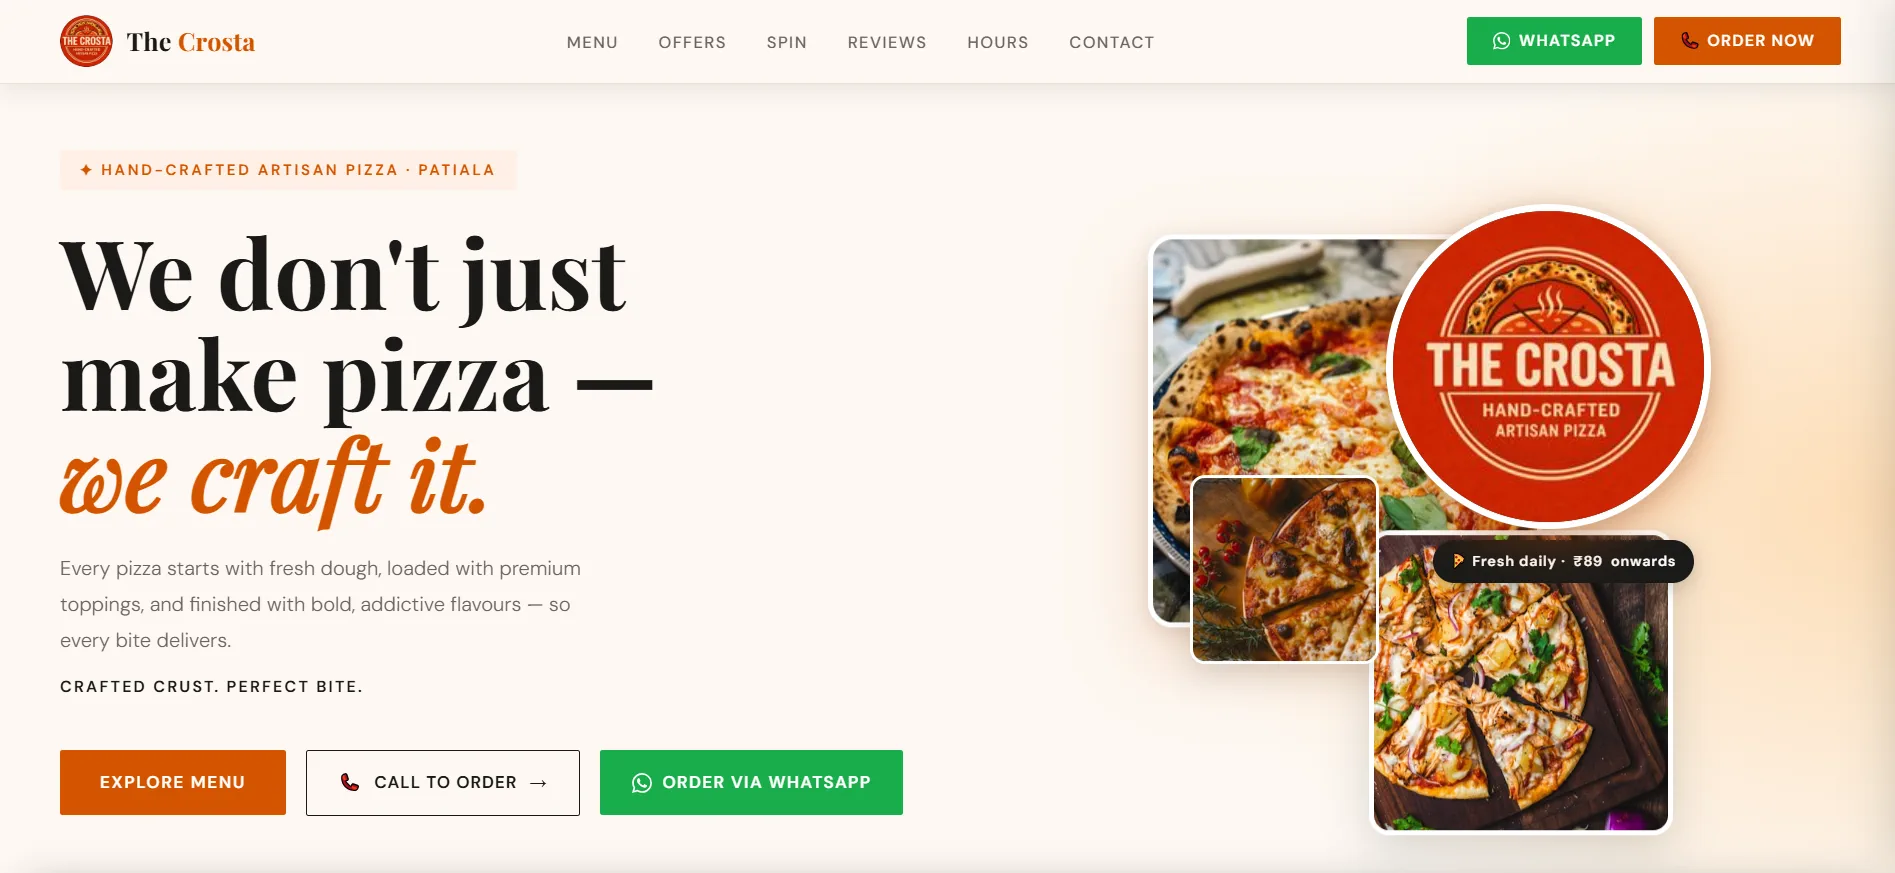
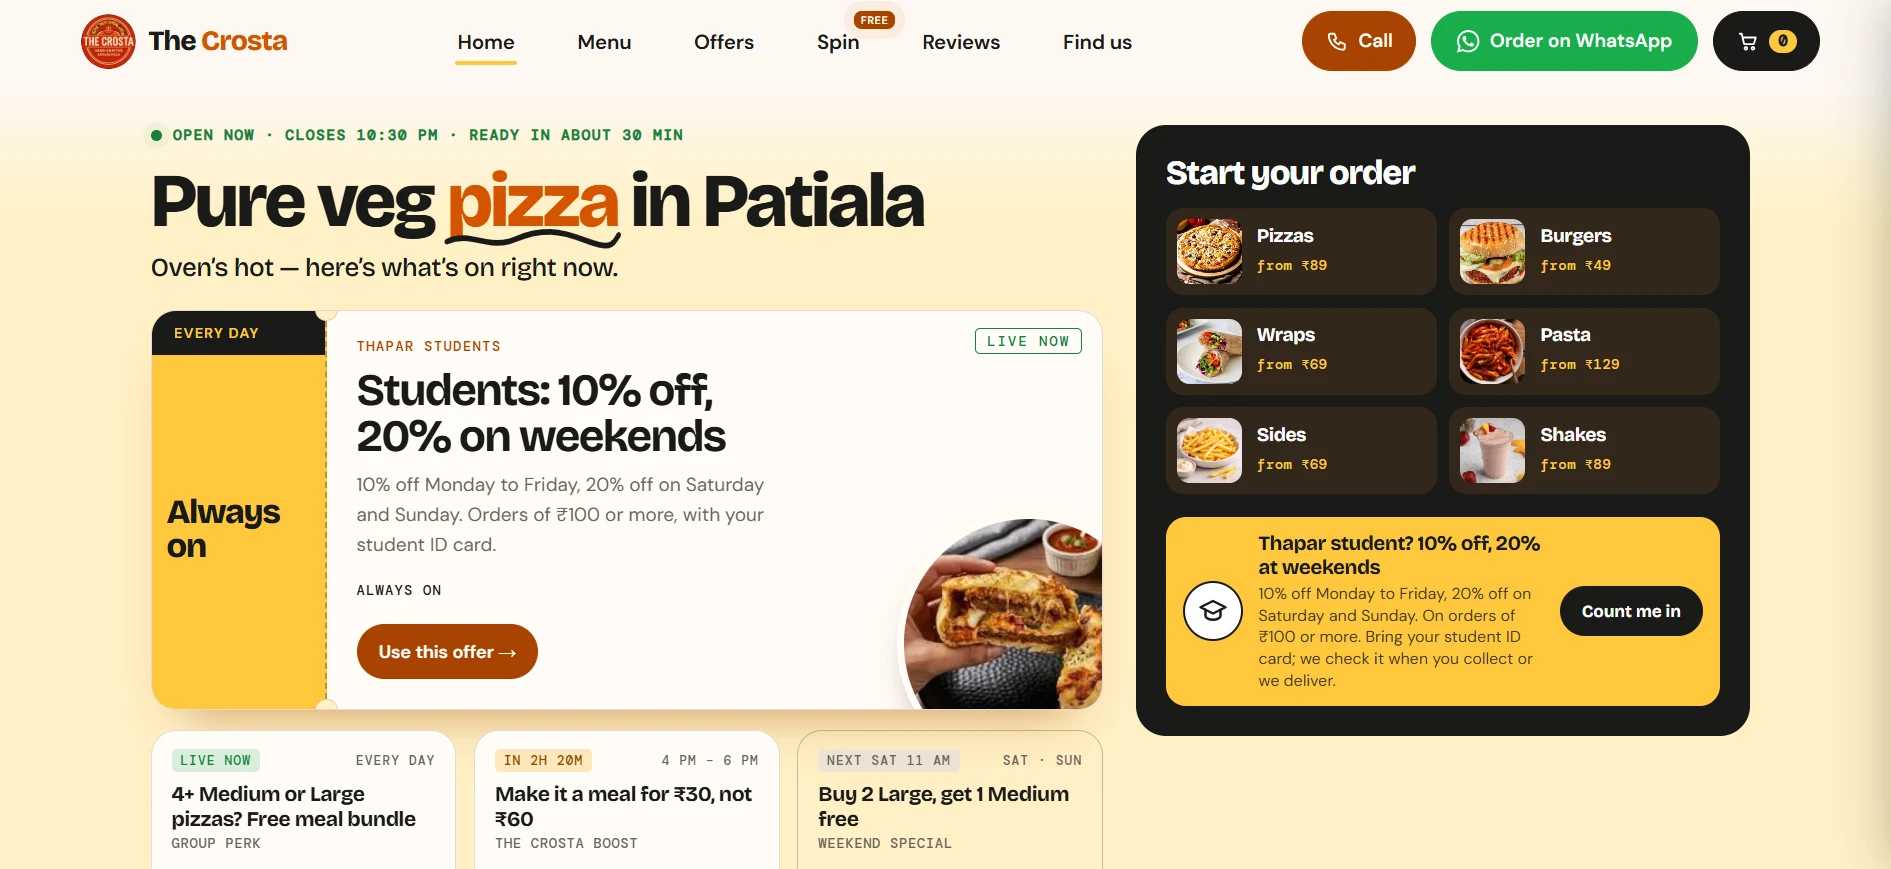
Add real project screenshots and show them uncropped
Replace placeholder panels with LIMS, QuickBill and PDFStudio screenshots,
update The Crosta preview, and size each frame to its image's natural
proportions so nothing is cropped. Parallax now moves the whole frame.

diff --git a/src/components/Work.tsx b/src/components/Work.tsx
@@ -5,6 +5,9 @@ import { gsap, prefersReducedMotion } from '../lib/motion'
 import demoPreview from '../assets/demo-preview.webp'
 import crostaPreview from '../assets/crosta-preview.webp'
 import barkatPreview from '../assets/barkat-preview.webp'
+import quickbillPreview from '../assets/quickbill-preview.webp'
+import pdfstudioPreview from '../assets/pdfstudio-preview.webp'
+import limsPreview from '../assets/lims-preview.webp'
 
 /* Every entry is real work. "Live" ones link to the running site; the
    "In development" ones have no public URL yet, so they don't link — and carry
@@ -19,9 +22,8 @@ type Project = {
   tags: string[]
   href?: string
   cta?: string
-  image?: string
-  imageAlt?: string
-  mark?: string
+  image: string
+  imageAlt: string
 }
 
 const PROJECTS: Project[] = [
@@ -76,7 +78,8 @@ const PROJECTS: Project[] = [
     blurb:
       "The web platform for Lifeline Institute of Medical Sciences — a department-by-department services directory, quick actions for patients, and a structure built to grow across every service the hospital offers.",
     tags: ['Next.js', 'TypeScript', 'Tailwind CSS', 'Accessibility'],
-    mark: 'LIMS',
+    image: limsPreview,
+    imageAlt: 'LIMS hospital home page — find a doctor or department',
   },
   {
     index: '05',
@@ -87,7 +90,8 @@ const PROJECTS: Project[] = [
     blurb:
       'A Tally-style GST quotation and tax-invoice generator for Indian small businesses — a tested calculation engine, financial-year numbering, and Firestore sync that switches on with a single credential.',
     tags: ['Next.js', 'TypeScript', 'Firestore', 'Cloudflare'],
-    mark: 'QB',
+    image: quickbillPreview,
+    imageAlt: 'QuickBill home screen — quotations, parties and items',
   },
   {
     index: '06',
@@ -98,7 +102,8 @@ const PROJECTS: Project[] = [
     blurb:
       'A PDF and document editor that runs on your own machine — a Python engine behind a desktop interface, built for editing files without handing them to a web service.',
     tags: ['Python', 'Desktop App', 'PDF Engine', 'Local-first'],
-    mark: 'PDF',
+    image: pdfstudioPreview,
+    imageAlt: 'PDFStudio home screen — 48 PDF tools',
   },
 ]
 
@@ -152,11 +157,13 @@ function ProjectRow({ project, flip }: { project: Project; flip: boolean }) {
           scrollTrigger: { trigger: el, start: 'top 92%', end: 'top 38%', scrub: true },
         },
       )
+      /* The whole frame drifts, not the picture inside it — screenshots are
+         shown whole, never cropped or scaled past their edges. */
       gsap.fromTo(
-        '.pr-media',
-        { yPercent: -6 },
+        '.pr-frame',
+        { yPercent: -3 },
         {
-          yPercent: 6,
+          yPercent: 3,
           ease: 'none',
           scrollTrigger: { trigger: el, start: 'top bottom', end: 'bottom top', scrub: true },
         },
@@ -221,32 +228,13 @@ function ProjectRow({ project, flip }: { project: Project; flip: boolean }) {
         </div>
 
         <div className={`lg:col-span-7 ${flip ? 'lg:order-1' : ''}`}>
-          <div className="pr-frame panel relative aspect-[16/11] overflow-hidden rounded-t-xl">
-            {project.image ? (
-              <img
-                src={project.image}
-                alt={project.imageAlt}
-                className="pr-media absolute -top-[12%] left-0 h-[124%] w-full object-cover object-top"
-              />
-            ) : (
-              <MarkPanel mark={project.mark ?? ''} />
-            )}
+          {/* Natural height, no fixed aspect: screenshots are shown whole. */}
+          <div className="pr-frame panel relative overflow-hidden rounded-t-xl">
+            <img src={project.image} alt={project.imageAlt} className="block h-auto w-full" />
           </div>
         </div>
       </Wrapper>
     </article>
-  )
-}
-
-/* Stand-in media for projects with no public screenshot yet: a typographic
-   mark on the house glow, so the row still has a visual anchor. */
-function MarkPanel({ mark }: { mark: string }) {
-  return (
-    <div className="pr-media absolute inset-[-8%] flex items-center justify-center bg-[radial-gradient(60%_60%_at_50%_45%,rgba(255,59,78,0.22),transparent_70%)]">
-      <span className="font-sans text-[clamp(5rem,16vw,12rem)] font-extrabold tracking-[-0.04em] text-ivory/90">
-        {mark}
-      </span>
-    </div>
   )
 }
 
